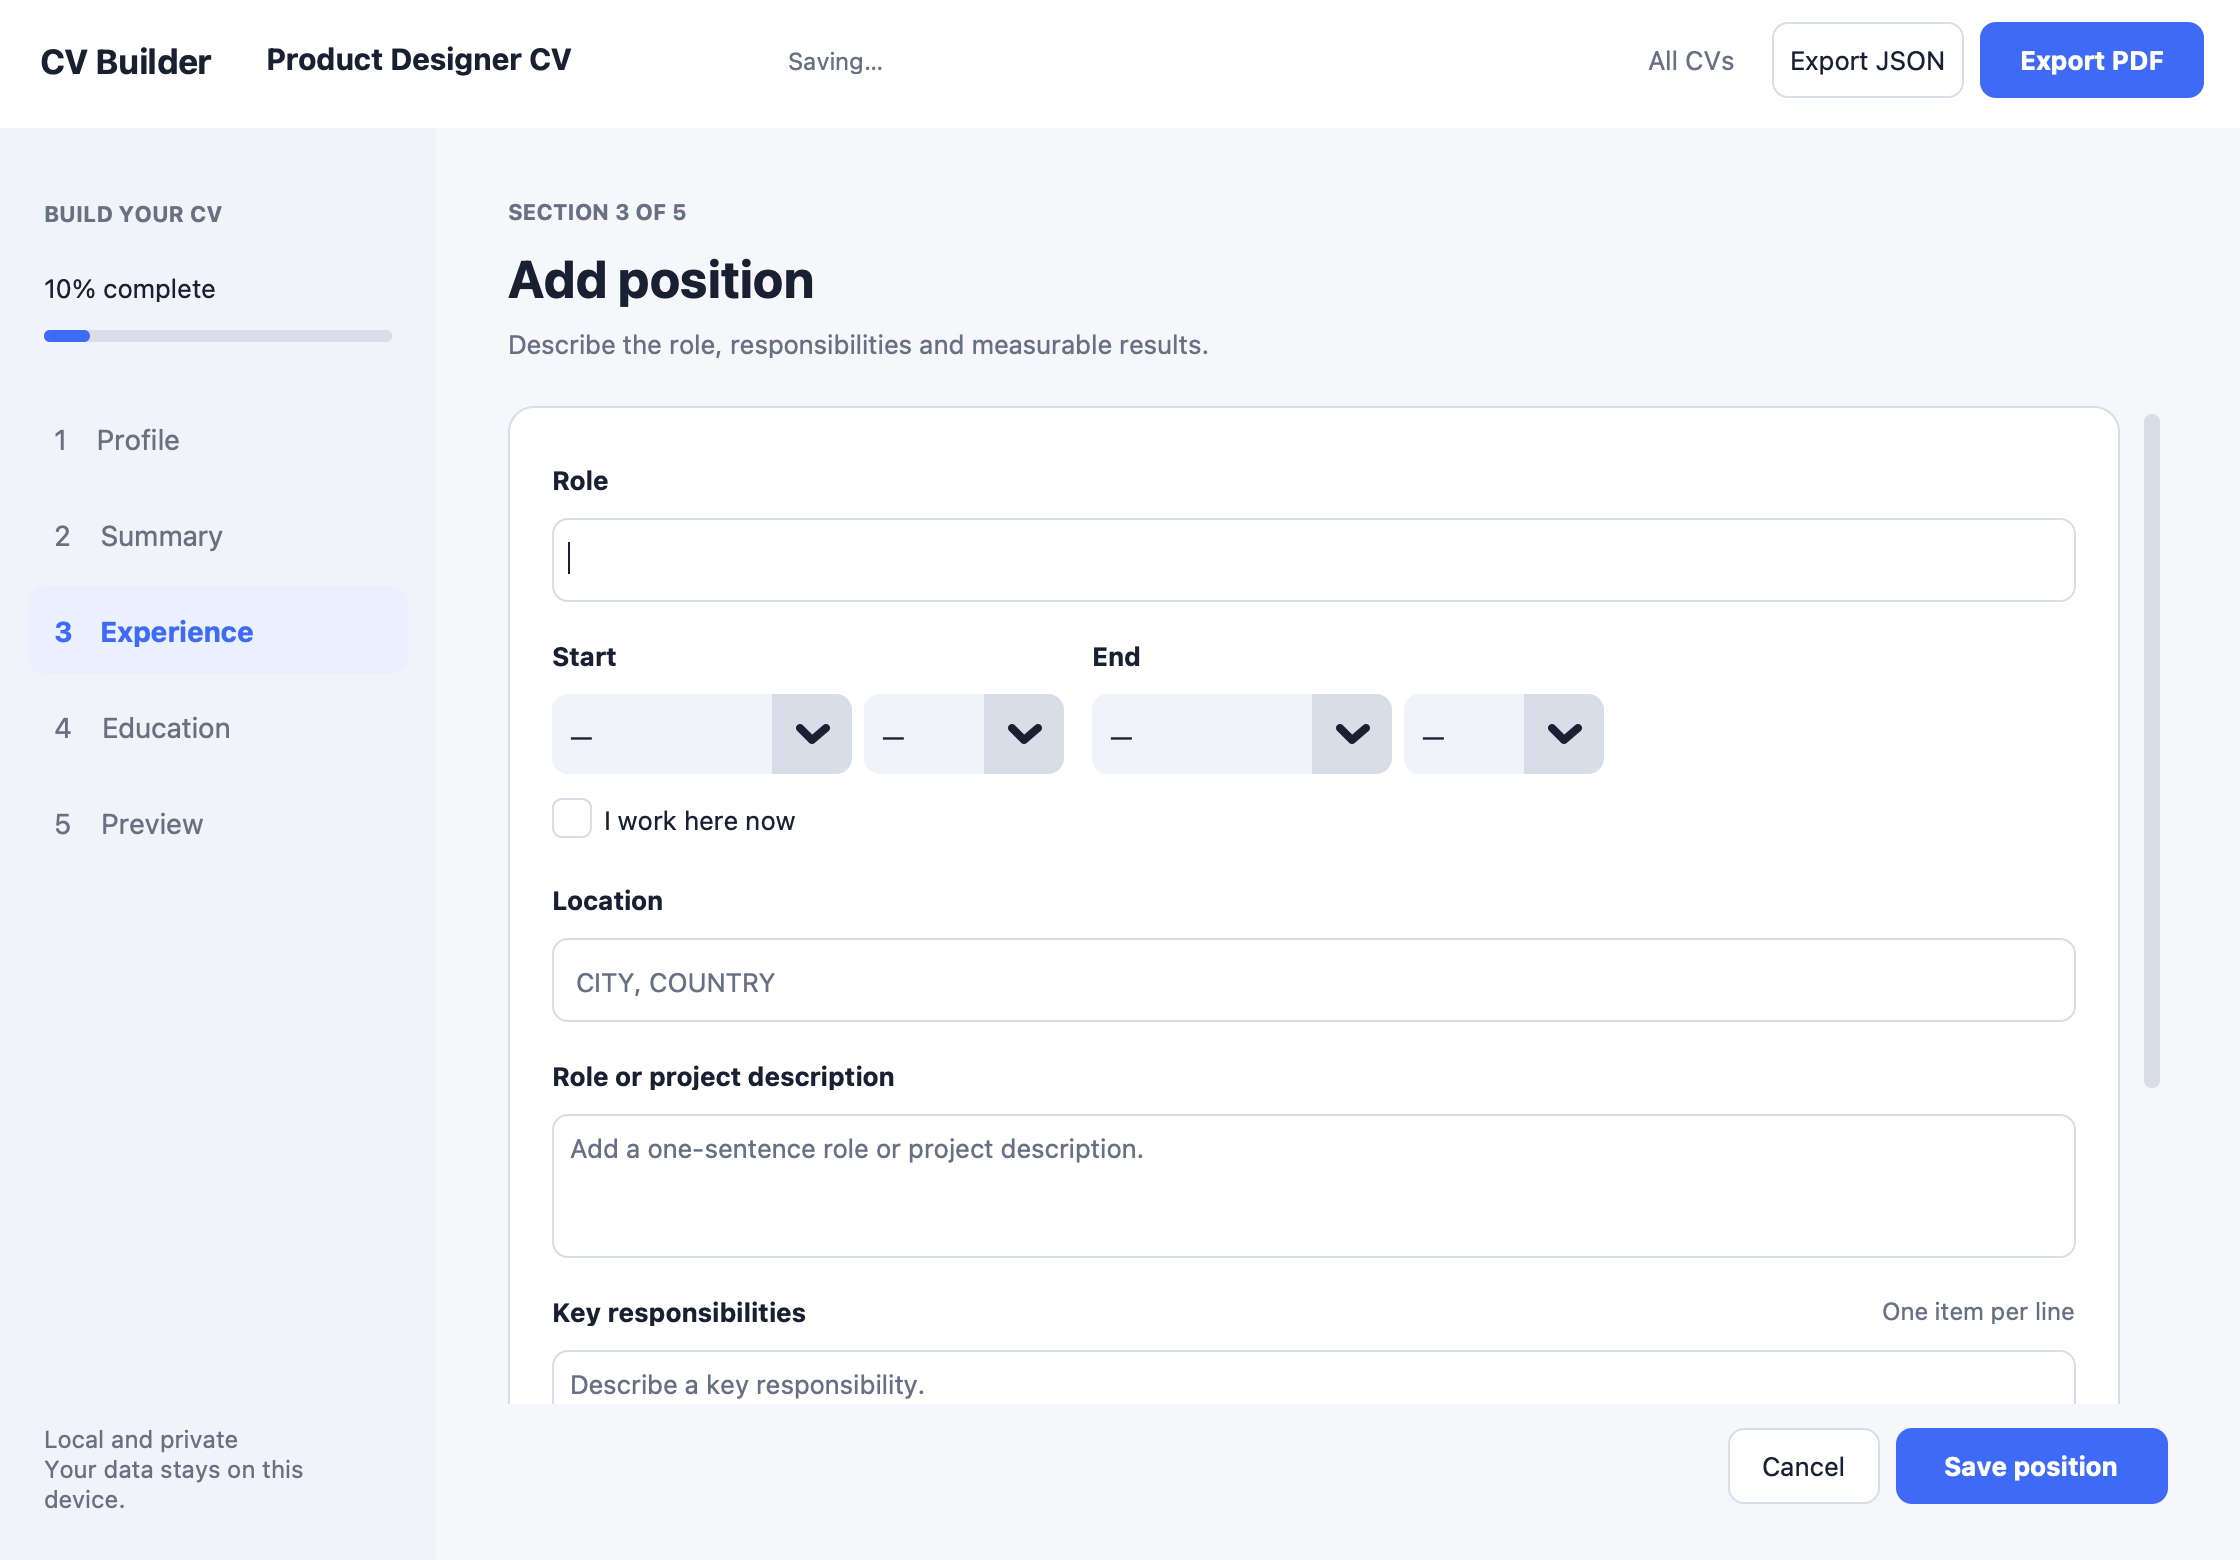
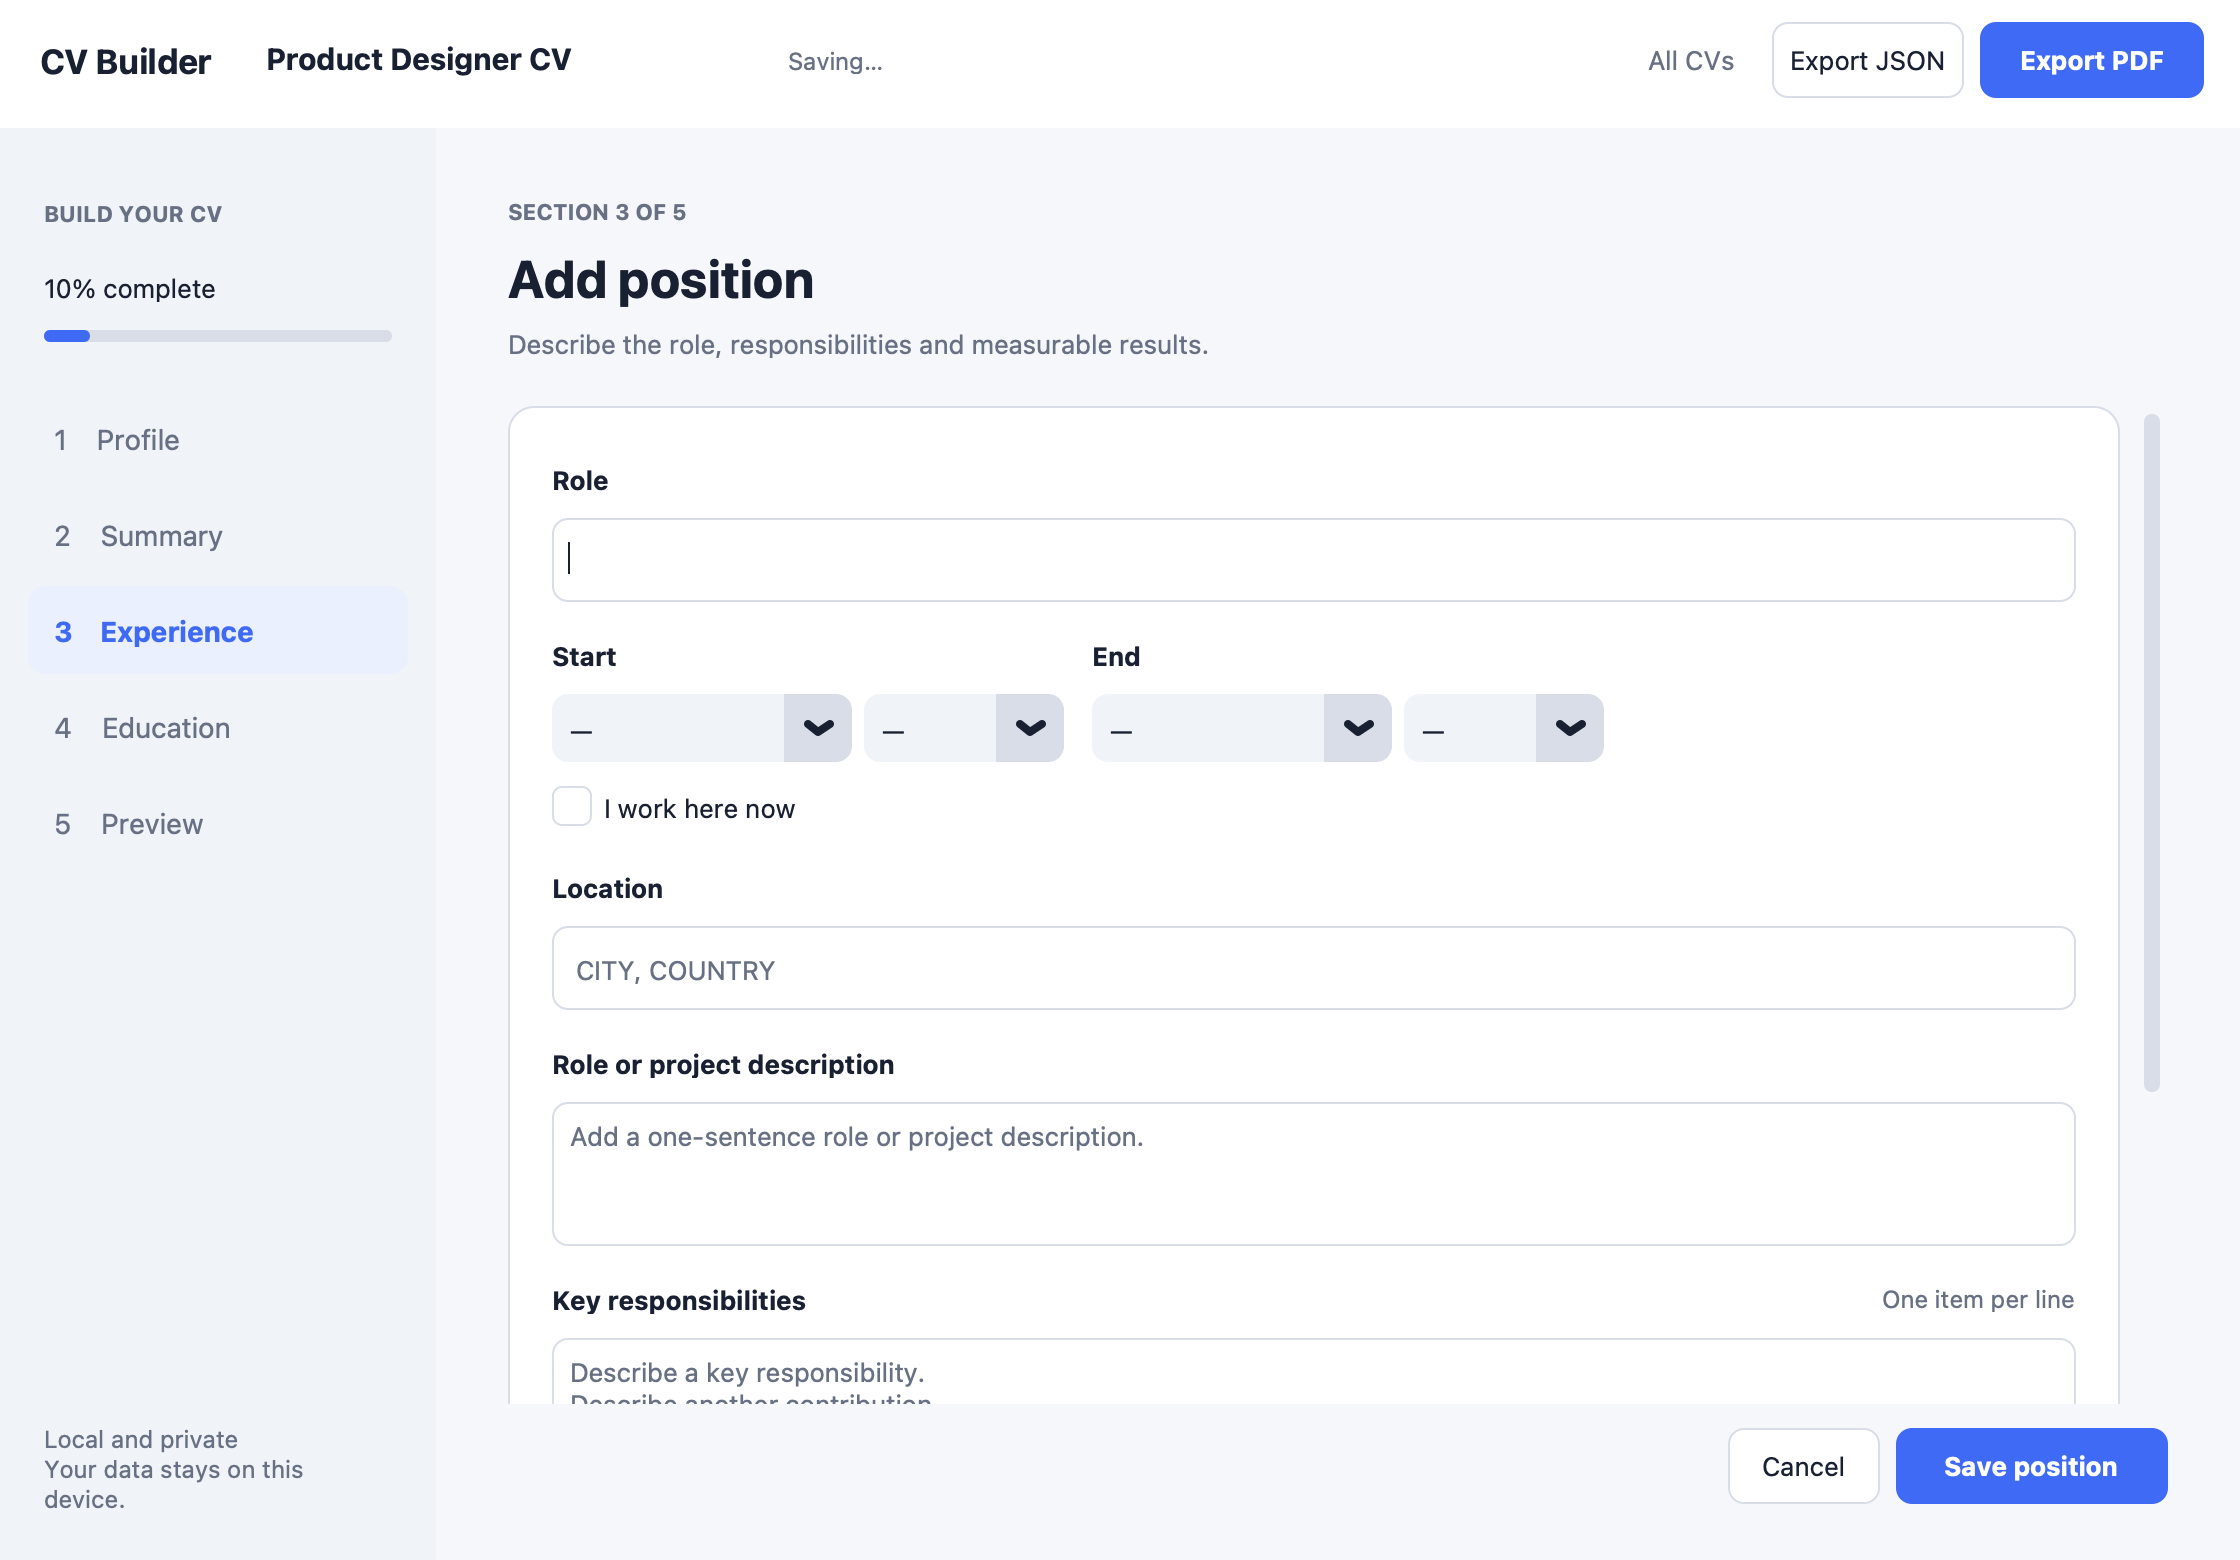
reduce selector heigh

diff --git a/src/cv_builder/ui/components/fields.py b/src/cv_builder/ui/components/fields.py
@@ -8,6 +8,10 @@ import customtkinter as ctk
 from cv_builder.ui.theme import COLORS, Fonts, button
 
 
+# One dropdown height across the app (design spec §5.3).
+MENU_HEIGHT = 34
+
+
 class PlaceholderEntry(ctk.CTkEntry):
     """CTkEntry placeholder overlay that never mutates its StringVar."""
 
@@ -130,14 +134,21 @@ def option_menu(
     variable: tk.StringVar,
     command=None,
     width: int = 250,
-    height: int = 36,
+    height: int = MENU_HEIGHT,
     fg_color: str | None = None,
 ) -> ctk.CTkOptionMenu:
     """The one dropdown look this app uses, everywhere it uses one.
 
+    The default height is the spec's 34 px (design spec §5.3): the CV-language
+    selector and the experience date pickers must read as one component, so a
+    new dropdown should take the default rather than pick its own number.
+
     `fg_color` defaults to the surface white that reads against the editor
     background; pass `surface_alt` when the menu sits on a white card, where
     white on white would leave only the arrow visible.
+
+    Width is always fixed — never grid this with `sticky="ew"`. CTkOptionMenu
+    draws its arrow at the configured width, not the allocated one.
     """
     return ctk.CTkOptionMenu(
         parent,

diff --git a/src/cv_builder/ui/screens/settings_dialog.py b/src/cv_builder/ui/screens/settings_dialog.py
@@ -107,6 +107,8 @@ class SettingsDialog(ctk.CTkToplevel):
             values=[locale["label"] for locale in locales.LOCALES],
             variable=self.language,
             command=self._on_selected,
+            # Its own window, its own 250x36 grid — not the editor's 34 px.
+            height=36,
         ).grid(row=1, column=0, sticky="w", pady=(8, 10))
         self._hint(body, 2, "settings.interface_hint", (0, 0))
 

diff --git a/src/cv_builder/ui/components/date_range.py b/src/cv_builder/ui/components/date_range.py
@@ -100,7 +100,6 @@ class DateRangeField(ctk.CTkFrame):
                 variable=variable,
                 command=lambda _value: self._notify(),
                 width=width,
-                height=40,
                 fg_color=COLORS["surface_alt"],
             )
             menu.grid(

diff --git a/src/cv_builder/ui/screens/sections/preview.py b/src/cv_builder/ui/screens/sections/preview.py
@@ -96,7 +96,6 @@ class PreviewSection(Section):
             variable=self.locale_label,
             command=self._on_locale_selected,
             width=OPTIONS_WIDTH,
-            height=34,
         )
         self.locale_menu.grid(row=2, column=0, sticky="ew")
 
